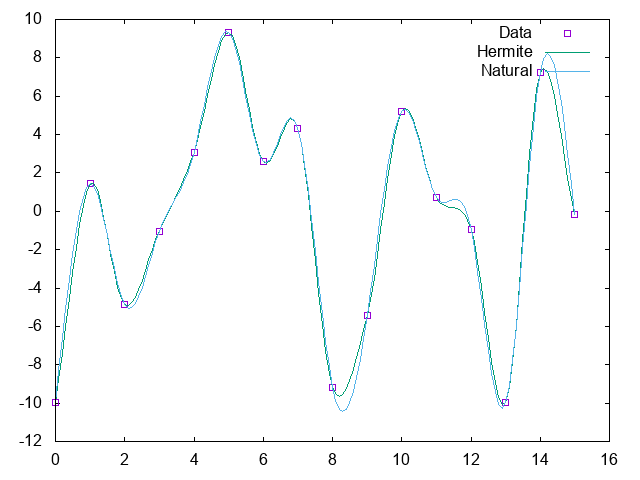
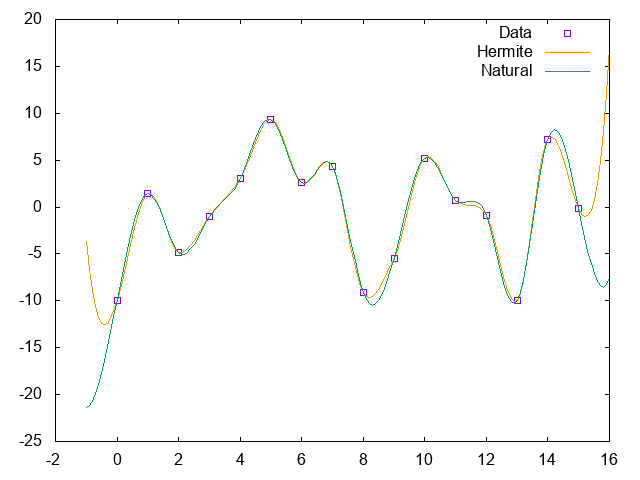
use new and simpler interface

diff --git a/uniform.cc b/uniform.cc
@@ -25,14 +25,10 @@ int main()
 	DSP::UniformNaturalCubicSpline<SAMPLES, value, value> natural(y);
 	for (int i = 0; i < SAMPLES; ++i)
 		printf("%g %g NaN NaN\n", value(i), y[i]);
-	for (int k = 0; k < SAMPLES-1; ++k) {
-		for (int i = 0; i < FACT; ++i) {
-			value t = value(i) / value(FACT);
-			value x = value(k) + t;
-			printf("%g NaN %g %g\n", x, hermite::eval(y, t, k, SAMPLES), natural(x));
-		}
+	for (int k = -FACT; k <= SAMPLES * FACT; ++k) {
+		value x = value(k) / value(FACT);
+		printf("%g NaN %g %g\n", x, hermite::eval(y, x, SAMPLES), natural(x));
 	}
-	printf("%g NaN %g %g\n", value(SAMPLES-1), hermite::eval(y, value(1), SAMPLES-2, SAMPLES), natural(value(SAMPLES-1)));
 	return 0;
 }
 
